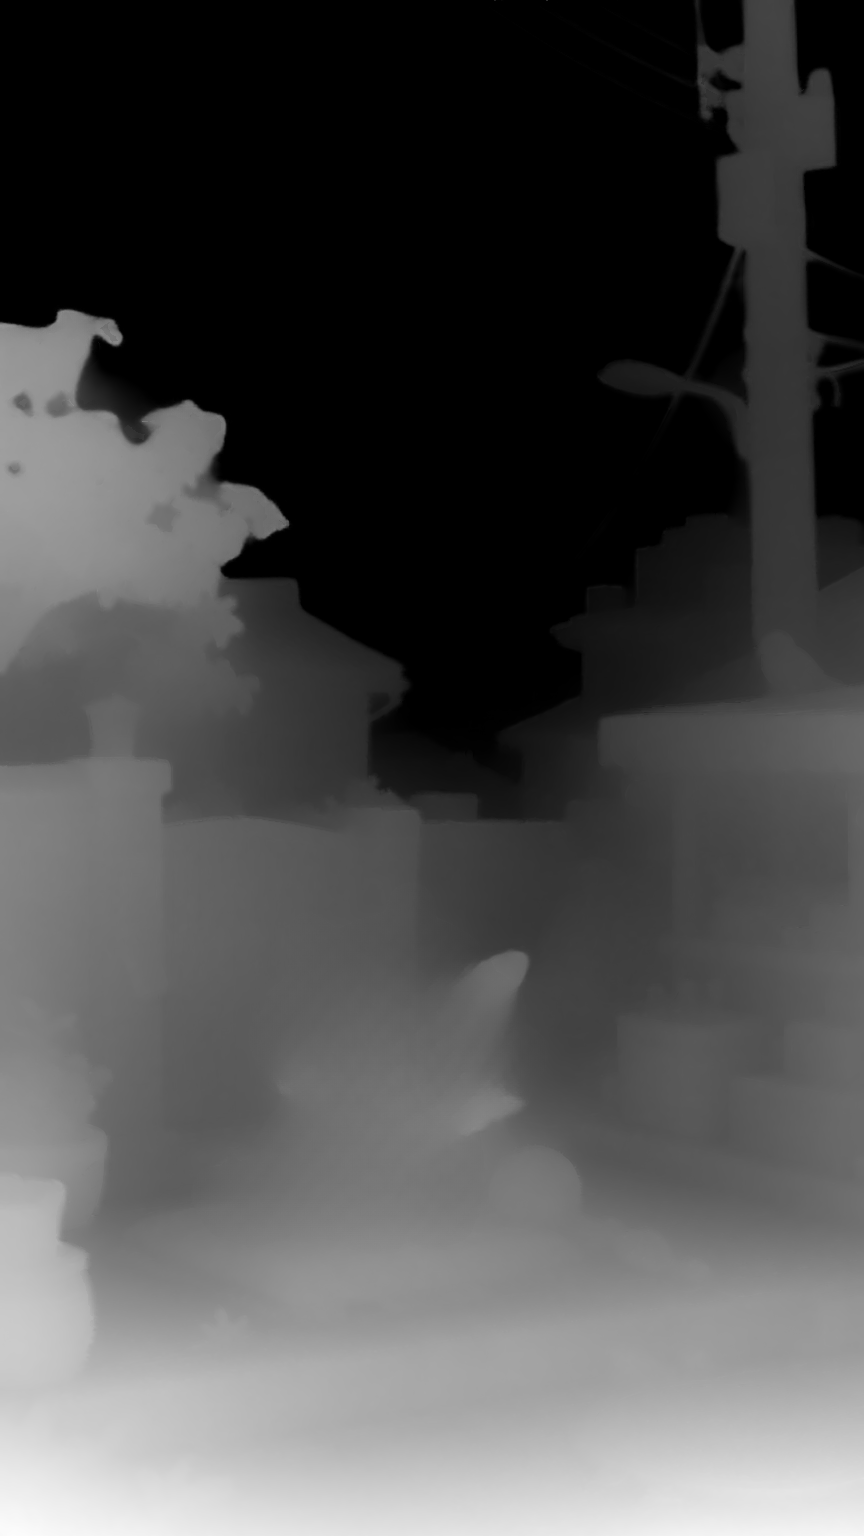
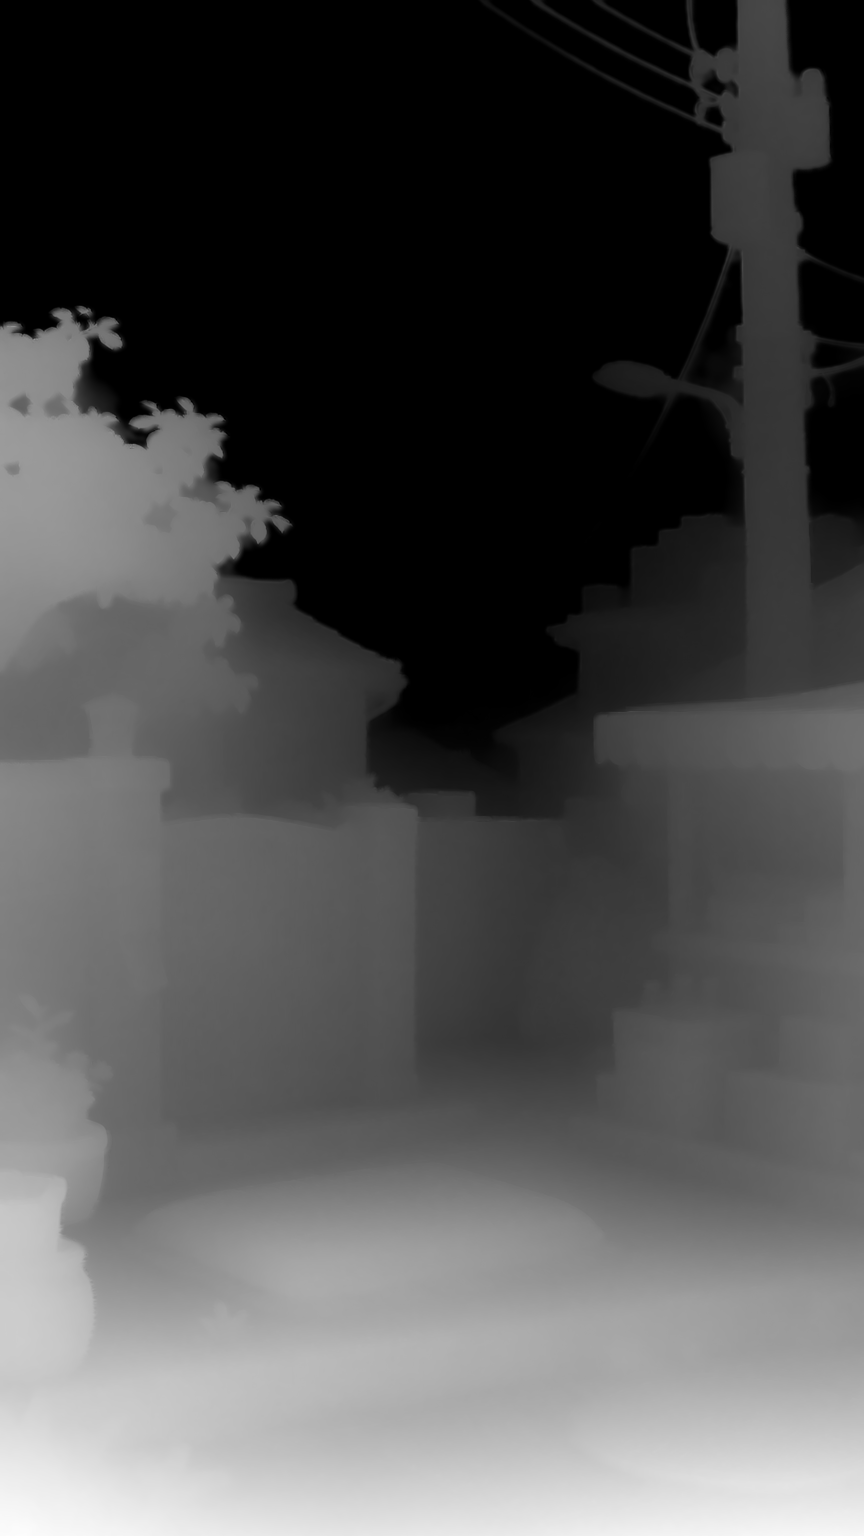
cherry2: back-layer depth estimated from base.png directly (not LaMa-guessed)
We already have base.png (the real cat-free render), so estimate the back-layer
depth straight from it instead of LaMa-inpainting depth into the hole where the cat
was. The LaMa guess differed from the real background depth by ~18 (gray) in the
cat region. build_3dphoto now takes SCENE_BG_DEPTH and colour-guides it to the
base plate. More accurate parallax behind the cat.

diff --git a/index.html b/index.html
@@ -11,7 +11,7 @@
     <meta name="apple-mobile-web-app-title" content="Cat Lock" />
     <meta name="apple-mobile-web-app-status-bar-style" content="black-translucent" />
     <link rel="manifest" href="./manifest.webmanifest" />
-    <link rel="stylesheet" href="./style.css?v=mesh-44" />
+    <link rel="stylesheet" href="./style.css?v=mesh-45" />
     <title>Cat Depth Lock</title>
     <script type="importmap">
       {
@@ -55,6 +55,6 @@
     </main>
 
     <script src="https://unpkg.com/lucide@0.468.0/dist/umd/lucide.min.js" defer></script>
-    <script type="module" src="./app.js?v=mesh-44"></script>
+    <script type="module" src="./app.js?v=mesh-45"></script>
   </body>
 </html>

diff --git a/app.js b/app.js
@@ -19,7 +19,7 @@ const sceneParam = new URLSearchParams(location.search).get("scene");
 const P3D = sceneParam ? `./assets/photo3d_${sceneParam}/` : "./assets/photo3d/";
 // asset cache-buster: bump on any rebuilt PNG so phones don't serve a stale image
 // (index.html's ?v= only refreshes the code, not these depth/colour PNGs).
-const AV = "?a=ch2b";
+const AV = "?a=ch2c";
 // core layers always present; protect.png (v2) / subject.png (v3 soft-LDI) are
 // loaded optionally and decide which front-layer path runs (see below).
 const ASSETS = {

diff --git a/scripts/build_3dphoto.py b/scripts/build_3dphoto.py
@@ -185,18 +185,30 @@ def main():
     fill = cv2.dilate(fill, ell(3))
 
     scene_bg = os.environ.get("SCENE_BG")
+    scene_bg_depth = os.environ.get("SCENE_BG_DEPTH")
     if scene_bg:
-        # use a pre-made background plate (e.g. a Codex generative inpaint of the
-        # cat-removed scene) instead of LaMa for the colour back layer.
+        # use a pre-made cat-free background plate (the real render) instead of LaMa.
         print("using external background:", scene_bg)
         bg_color = np.array(Image.open(scene_bg).convert("RGB").resize(plate_rgb.shape[1::-1]))
     else:
         print("inpainting colour with LaMa ...")
         bg_color = lama_inpaint(plate_rgb, fill)
-    print("inpainting depth with LaMa ...")
-    depth_rgb = cv2.cvtColor(depth_s, cv2.COLOR_GRAY2RGB)
-    bg_depth_rgb = lama_inpaint(depth_rgb, fill)
-    bg_depth = cv2.cvtColor(bg_depth_rgb, cv2.COLOR_RGB2GRAY)
+
+    if scene_bg_depth:
+        # the back layer has its OWN real depth (estimated directly from the cat-free
+        # plate) — far better than LaMa guessing depth where the cat used to be. Refine
+        # it the same colour-guided way as the front so its edges stay crisp.
+        print("using external background depth:", scene_bg_depth)
+        bgd_raw = np.array(Image.open(scene_bg_depth).convert("L"))
+        bg_gray = cv2.cvtColor(bg_color, cv2.COLOR_RGB2GRAY).astype(np.float32) / 255.0
+        bgd = cv2.medianBlur(bgd_raw, 5).astype(np.float32) / 255.0
+        bgd = guided_filter(bg_gray, bgd, r=4, eps=1e-4)
+        bg_depth = np.clip(bgd * 255.0, 0, 255).astype(np.uint8)
+    else:
+        print("inpainting depth with LaMa ...")
+        depth_rgb = cv2.cvtColor(depth_s, cv2.COLOR_GRAY2RGB)
+        bg_depth_rgb = lama_inpaint(depth_rgb, fill)
+        bg_depth = cv2.cvtColor(bg_depth_rgb, cv2.COLOR_RGB2GRAY)
 
     # cat "protect" map: where the cut should be CONSERVATIVE. The cat's moderate
     # edges (hat brim vs gate) must not be cut (cutting them stipples a dotted
